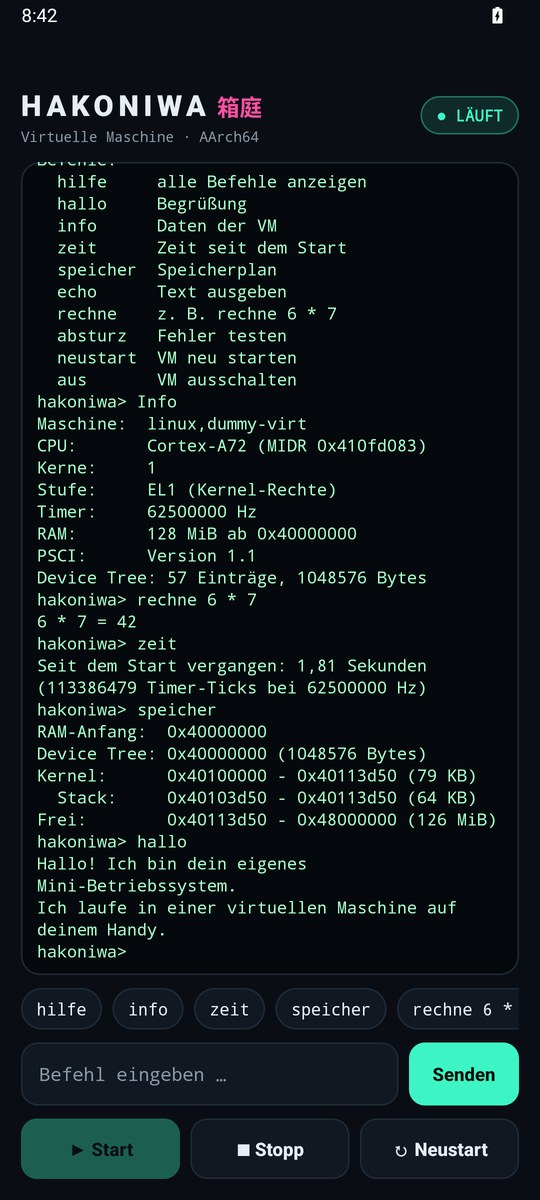
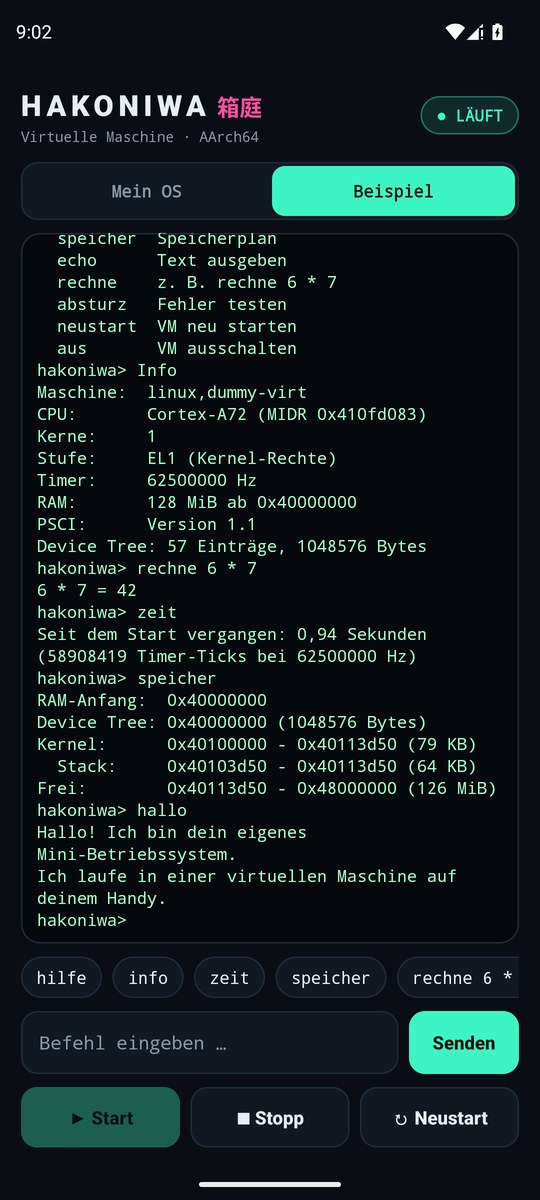
ARM-Test: Android-Umgebung zwischenspeichern, Spiegel als Ersatz
Docker Hub hatte das Herunterladen begrenzt. Das Image wird jetzt
zwischengespeichert und notfalls über mirror.gcr.io geholt. Ist es gar nicht
erreichbar, wird der ARM-Test mit einer Warnung übersprungen, statt die
Veröffentlichung zu blockieren. README zeigt jetzt Mein OS und das Beispiel.

Claude-Session: https://claude.ai/code/session_01PtpfRFy6sVdnp7F6TMydK1

diff --git a/README.md b/README.md
@@ -4,8 +4,8 @@ Android-App, die auf dem Handy eine virtuelle Maschine startet. Darin läuft ein
 kleines Betriebssystem. Dein echtes Android wird dabei nicht verändert, und die App braucht kein Root.
 
 <p align="center">
-  <img src="docs/screenshots/start.jpg" width="220" alt="Start der VM">
-  <img src="docs/screenshots/befehle.jpg" width="220" alt="Befehle im Mini-Betriebssystem">
+  <img src="docs/screenshots/mein-os.jpg" width="220" alt="Mein OS bei Schritt 0">
+  <img src="docs/screenshots/befehle.jpg" width="220" alt="Das Beispiel mit Befehlen">
 </p>
 
 ## Download
